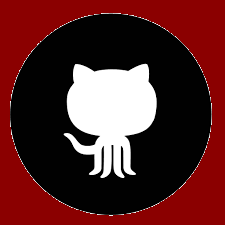
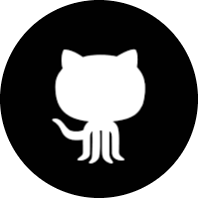
added link to eternal noire website. Updated github image

diff --git a/public/assets/css/style.css b/public/assets/css/style.css
@@ -35,7 +35,7 @@ header{
 
 footer{
     margin-top: auto;
-    height: 60px;
+    height: 50px;
     display: flex;
     justify-content: center;
     align-items: center;
@@ -52,7 +52,9 @@ form{
 }
 
 img{
-    height: 40px;
+    height: 35px;
+    margin-left: 5px;
+    margin-right: 5px;
 }
 
 input{

diff --git a/public/index.html b/public/index.html
@@ -123,6 +123,7 @@
     </div>
 
     <footer>
+        <a href="https://eternalnoire.com/" ><img src="./assets/images/EN_Logo.png" alt="github"></a>
         <a href="https://github.com/pletzjd" ><img src="./assets/images/github.png" alt="github"></a>
     </footer>
 
